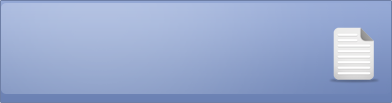
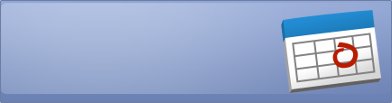
Submissions closed

Changed region(s): [[0.7041, 0.0874, 0.9796, 0.9029]]

diff --git a/public/stylesheets/style.css b/public/stylesheets/style.css
@@ -237,7 +237,7 @@ a.signup_btn:hover {
 	-moz-background-clip:border;
 	-moz-background-inline-policy:continuous;
 	-moz-background-origin:padding;
-	background:transparent url(../images/hurry.gif) no-repeat scroll 0 0;
+	background:transparent url(../images/closed.gif) no-repeat scroll 0 0;
 	border-bottom:1px dotted #6B81B3;
 	height:106px;
 	margin-top:5px;
@@ -260,15 +260,14 @@ a.signup_btn:hover {
     font-size:25px;
     font-weight:normal;
     padding-left:20px;
-    padding-top:26px;
+    padding-top:16px;
 
 }
 .submit_papers_box p {
-	font-size:13px;
+	font-size:25px;
 	font-weight:normal;
-	color:#ffffff;
-	padding-right:70px;
-	text-align:right;
+	color:#FA2F2F;
+	padding-left:20px;
 }
 .submit_papers_box a {
     color:#FFFFFF;
